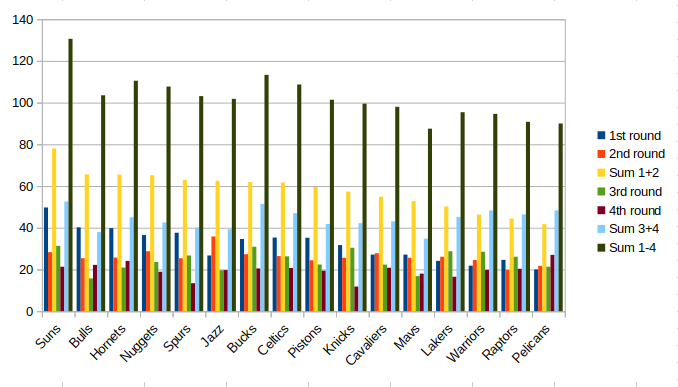
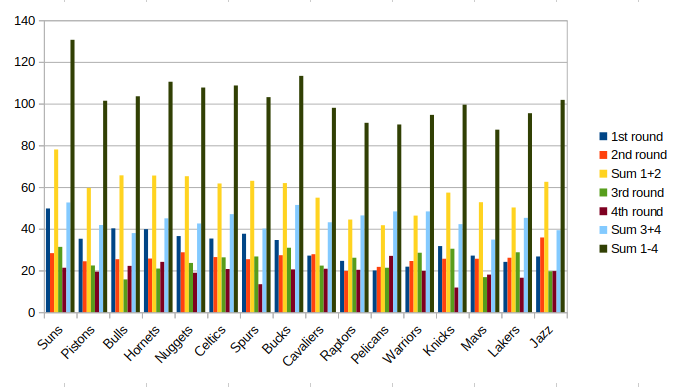
...

Changed region(s): [[0.0, 0.093, 0.8363, 0.9612], [0.8673, 0.3411, 0.9912, 0.6512], [0.0, 0.031, 0.8363, 0.062]]

diff --git a/news/b/komandosbe1picku.html b/news/b/komandosbe1picku.html
@@ -1,0 +1,75 @@
+<!DOCTYPE html>
+<html lang="en">
+<head>
+    <meta charset="UTF-8">
+    <meta name="viewport" content="width=device-width, initial-scale=1.0">
+    <link rel="stylesheet" href="../../css/styles.css">
+    <title>News Detail - A Lyga</title>
+</head>
+<body>
+    <header>
+        <div class="header-container">
+            <a href="../../index.html">
+                <img src="../../images/logo.svg" alt="Your Logo" class="header-logo">
+            </a>
+            <h1 class="title">United Fantasy League</h1>
+            <div class="hamburger" onclick="toggleMenu()">&#9776;</div>
+        </div>
+        <nav>
+            <ul id="nav-links">
+                <li><a href="../alyga.html">A lyga</a></li>
+                <li><a href="../blyga.html">B Lyga</a></li>
+                <li><a href="../toto.html">Totalizatoriai</a></li>
+                <li><a href="../rekordai.html">Rekordai</a></li>
+                <li><a href="../about.html">Apie mus</a></li>
+            </ul>
+        </nav>
+    </header>
+
+    <main>
+        <section class="news-detail">
+            <h2 class="news-title">Kaip atrodytų mūsų komandos be pirmame rounde pašauktų žaidėjų?</h2>
+            <p class="news-date">2025-01-03 Rytis Astrauskas</p>
+            
+            <p class="news-text">
+                
+                <br><br>
+                Šia analize norėjau patikrinti kiek įtakos mūsų užimamai vietai turi pirmo roundo šaukimai ir 
+                kaip atrodytų lentelė, jeigu jų neturėtume.
+                <br><br>
+                TOP 3, TOP 5 ir TOP 7 išlieka tos pačios komandos ir didžiausi pasikeitimai yra
+                 tik per vieną poziciją, didesni pokyčiai pastebimi tik 8-15vt užimančiose 
+                 komandose.
+                <br><br>
+                Nors ir pokyčiai yra tik per vieną poziciją lentelės viršuje, tačiau man 
+                (Tingus Pingus Squad) be Jokič nepavyktų išsaugoti pirmos vietos ir tektų ją 
+                užleisti Joris Gru su Tatum priešakyje.
+                <br><br>
+                Limitless lieka 3 vietoje su Brunsonu, o Ginio pajegos pakiltų į 4 vietą, 
+                kadangi šiuo metu traumuotas Dončič neturi tiek daug įtakos jo bendriems 
+                fpts lyginant su Team Grikstas SGA renkamais fpts, kuris ir nukristų į 5 vietą.
+                <br><br>
+                Didžiausias pozicijų šuolis į viršų būtų Team Lietkabelis, kuris iš 11 vietos 
+                pakiltų į 8 vietą, kadangi jo pirmojo roundo pasirinkimas buvo Embiid, kuris 
+                didžiąją sezono dalį praleido dėl trauma ir surinko tik 250 fpts, t.y 
+                mažiausiai iš visų pirmo roundo pasirinkimų.
+                <br><br>
+                Didžiausias nuosmukis būtų P-Town, kurio dabartinei 9 pozicijai daug įtakos 
+                turi Davis stabilumas, be jo ši komanda nukristų iš 9 į 13 vietą, tai yra gan 
+                logiška, kadangi šiuo metu pagal total fpts Anthony Davis nusileidžia tik 
+                Nikola Jokič ir užima antra vietą.
+                <br><br>
+                Galima daryti išvadą, kad be pirmame rounde pašauktų žaidėjų stipriai 
+                nepasikeistų mūsų užimamos vietos ir galutinę rikiuotę labiau lemia like 
+                pasirinkimai bei laisvųjų agentų pasirinkimai.
+                <img src="../../images/be1pick.png" alt="statsai be 1 picku" class="news-detail-lentele">
+            </p>
+        </section>
+    </main>
+
+    <footer>
+        <p>&copy; 2024 United Fantasy League</p>
+    </footer>
+    <script src="../../script.js"></script>
+</body>
+</html>

diff --git a/blyga.html b/blyga.html
@@ -28,10 +28,19 @@
         </nav>
     </header>
     <main>
-        <section id="coming-soon">
-            <div class="coming-soon-container">
-                <h2 class="coming-soon-title">Page Coming Soon!</h2>
-                <p class="coming-soon-text">We are working hard to bring you something amazing. Stay tuned!</p>
+        <section id="news-article">
+            <h2>Naujienos</h2>
+            <div class="news-container">
+                <a href="news/b/komandosbe1picku.html" class="news-item">
+                    <img src="https://png.pngtree.com/png-vector/20230517/ourmid/pngtree-shiny-golden-balloon-number-one-digit-vector-png-image_7099928.png" alt="News Title" class="news-image">
+                    <div class="news-content">
+                        <h3 class="news-title">Kaip atrodytų mūsų komandos be pirmame rounde pašauktų žaidėjų?</h3>
+                        <p class="news-description">Pabandykime peržvelgti, ar kažkurios draftų pozicijos suteikė pranašumą.</p>
+                        <p class="news-date">2025-01-03 Rytis Astrauskas</p>
+                    </div>
+                </a>
+
+                <!-- You can add more news items here -->
             </div>
         </section>
     </main>

diff --git a/news/boston_kilimas.html b/news/boston_kilimas.html
@@ -93,6 +93,6 @@
     <footer>
         <p>&copy; 2024 United Fantasy League</p>
     </footer>
-    <script src="script.js"></script>
+    <script src="../script.js"></script>
 </body>
 </html>

diff --git a/news/iskurdraftuotigeriausia.html b/news/iskurdraftuotigeriausia.html
@@ -99,6 +99,6 @@
     <footer>
         <p>&copy; 2024 United Fantasy League</p>
     </footer>
-    <script src="script.js"></script>
+    <script src="../script.js"></script>
 </body>
 </html>

diff --git a/news/knicks_sturmas.html b/news/knicks_sturmas.html
@@ -62,6 +62,6 @@
     <footer>
         <p>&copy; 2024 United Fantasy League</p>
     </footer>
-    <script src="script.js"></script>
+    <script src="../script.js"></script>
 </body>
 </html>
